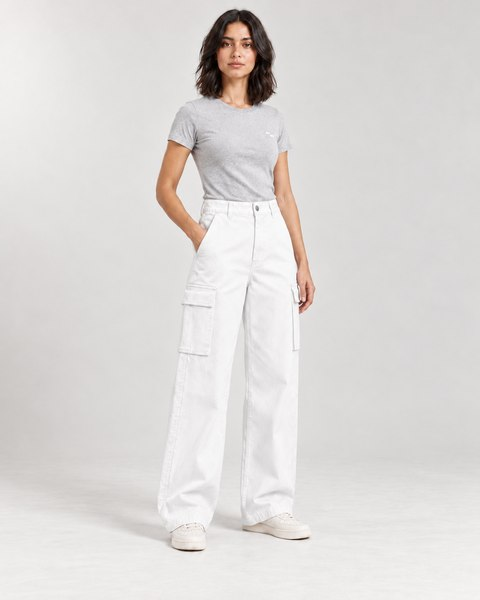
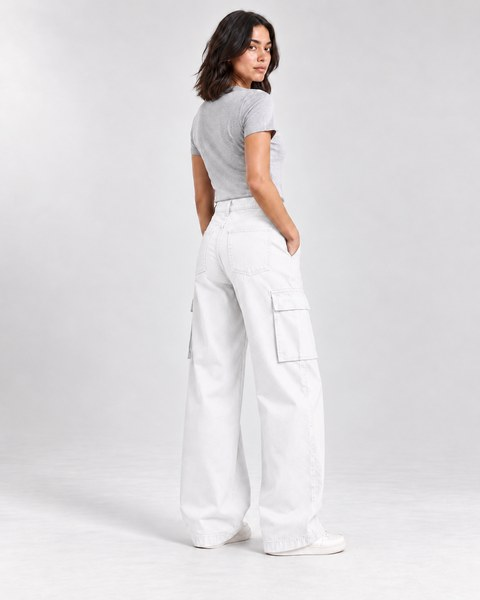
Update bottoms gallery photos with reference poses

diff --git a/docs/PRODUCT-PHOTOGRAPHY.md b/docs/PRODUCT-PHOTOGRAPHY.md
@@ -69,3 +69,5 @@ Editorial full-body outfit update: catalog/editorial-photos/white-hoodie-black-c
 Neutral background revision: built-in imagegen removed the pink/violet cast from the editorial full-body outfit while preserving the same model, white hoodie, black Grid Cargo Pant and shoes. Final source: catalog/editorial-photos/white-hoodie-black-cargo-neutral.png. Final responsive assets: theme/assets/sf-editorial-white-hoodie-black-cargo-neutral.jpg and -480.jpg. Prompt/reference provenance: catalog/editorial-neutral-background-generation.json. The earlier full-body source remains preserved.
 
 Single solid backdrop correction: the final Room to move model is now a true transparent PNG cutout, so the existing outer tile color (#e7e7e3) fills the entire tile without an inner studio rectangle. Background, floor and shadows were removed with built-in imagegen. Original: catalog/editorial-photos/white-hoodie-black-cargo-cutout.png. Responsive theme assets: sf-editorial-white-hoodie-black-cargo-cutout.png and -480.png. Prompt: catalog/editorial-cutout-generation.json. Earlier full and neutral-background images remain preserved but are no longer rendered in this tile.
+
+The second full-body gallery photograph for Grid Cargo Pant, Drift Baggy Jean and Interval Utility Short was updated in all three colors using built-in imagegen. Female models use the supplied three-quarter rear pose; the male model faces away with a hand behind his neck. Original SIDEFORM identities, outfits and pale studio settings remain the edit constraints. Exact prompts, references and image hashes are in catalog/bottoms-pose-generation.json; selected PNG originals replace the corresponding full images in catalog/product-gallery-photos/.

diff --git a/docs/VALIDATION.md b/docs/VALIDATION.md
@@ -219,3 +219,5 @@ Category button hover: matched editorial button dark outline and paper backgroun
 Card photo hover zoom: 4% over 300ms on fine-pointer hover devices. Verified homepage, collections, search results, related products and category cards; existing category crops remain intact, zoom is clipped within photos, and reduced-motion preference disables it.
 
 Carousel positioning: explicit block gallery and regular positioned viewport now anchor the overlay. scripts/test-carousel-position.cjs passed Chromium and WebKit at 320, 390, 414 (iPhone 11), 768, 896 landscape, 989 and 1024px; checked side arrow centers, bottom-centered fraction, next-photo navigation and desktop control visibility. This is browser-engine simulation, not a physical iPhone test.
+
+Bottoms second-photo pose updates: visually reviewed nine generated outputs, exported 1122x1402 and 480x600 JPEGs, verified Black/White/Grey switching and second-slide access for all three bottoms at 414, 768 and 1440px, with no horizontal page overflow.
